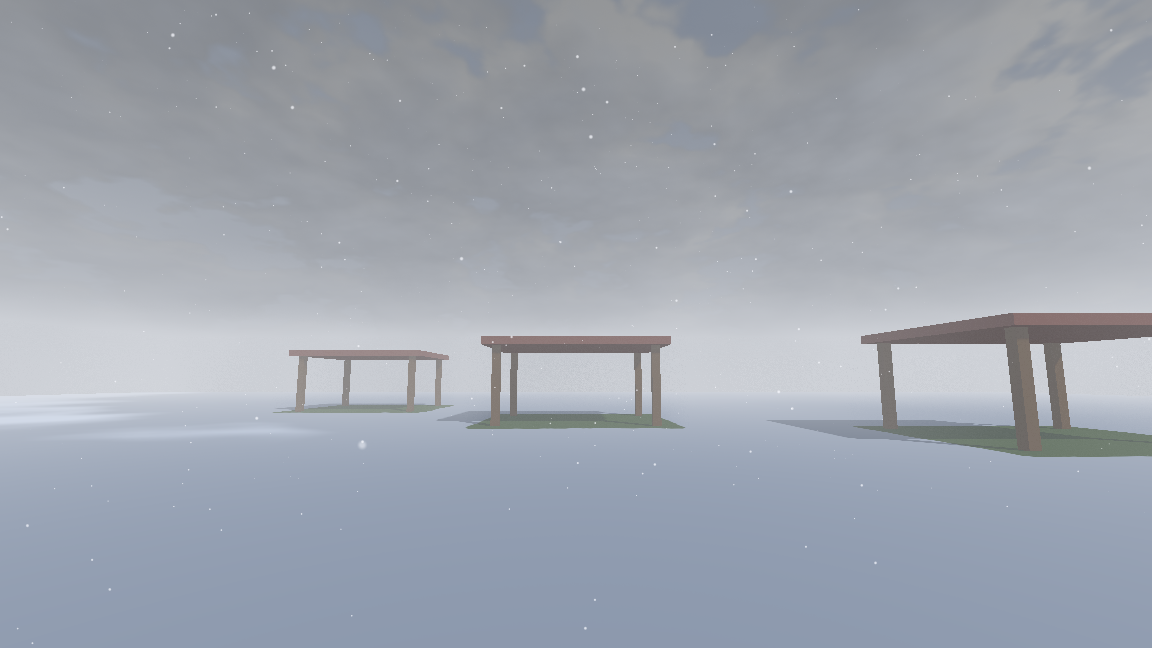
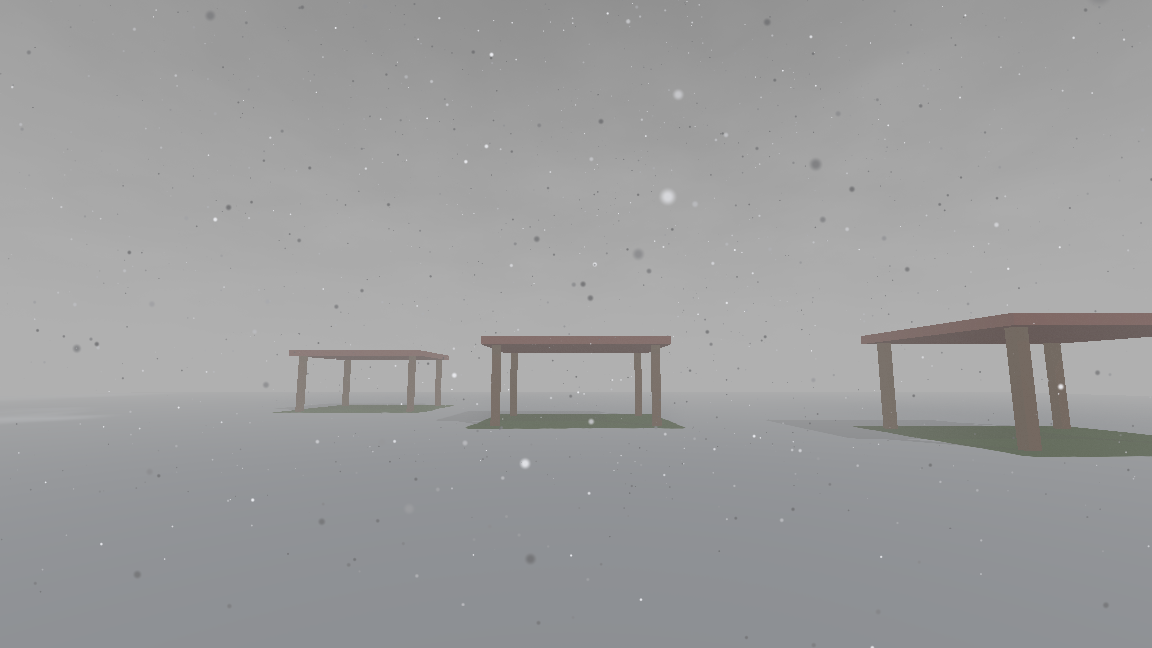
Make the snow read as snow
- A snow storm greys the sky pale rather than dark (`snowy` on OvercastSky, following `snow` at
  the storm's pace), and the haze fades into that sky, so there is no seam at the horizon.
- Snow hazes at 0.6 of rain's density: against white, rain's haze was a whiteout.
- Flakes range from 45% of their light to all of it, so some show dark against the haze and
  some light against the ground. More of them in light snow.
- Snow's slope cutoff is gentler, so the noise and not the mesh's facets draws the patches.

Claude-Session: https://claude.ai/code/session_01XSdv8RFyoAPyrA5iN6RKAt

diff --git a/README.md b/README.md
@@ -9,7 +9,7 @@ renderer, including Compatibility and Mobile.
 
 ![Fair weather, with cloud shadows on the ground](docs/clear.png)
 ![A downpour: haze, far rain, puddles](docs/rain.png)
-![Snow: lying everywhere but under the roofs](docs/snow.png)
+![Snow: flakes, a pale sky, and snow lying everywhere but under the roofs](docs/snow.png)
 
 ## Quick start
 
@@ -77,7 +77,8 @@ and go on their own.
   instead.
 - **`OvercastWeather`** handles the rain and snow:
   - drops or flakes in a box around the camera; `snow` says how much of `rain` falls as snow
-  - haze and far rain only through air that rain is actually falling in; snow hazes it bright
+  - haze and far rain only through air that rain is actually falling in; snow turns the storm
+    sky a pale grey, and hazes less
   - wet ground and puddles on every material that includes `shaders/wet.gdshaderinc` and calls
     `overcast_wet_pbr(albedo, roughness, specular, world_pos, world_normal)` from `fragment()`:
     darker, smoother, puddles that reflect the sky. Nothing to register; each material's
